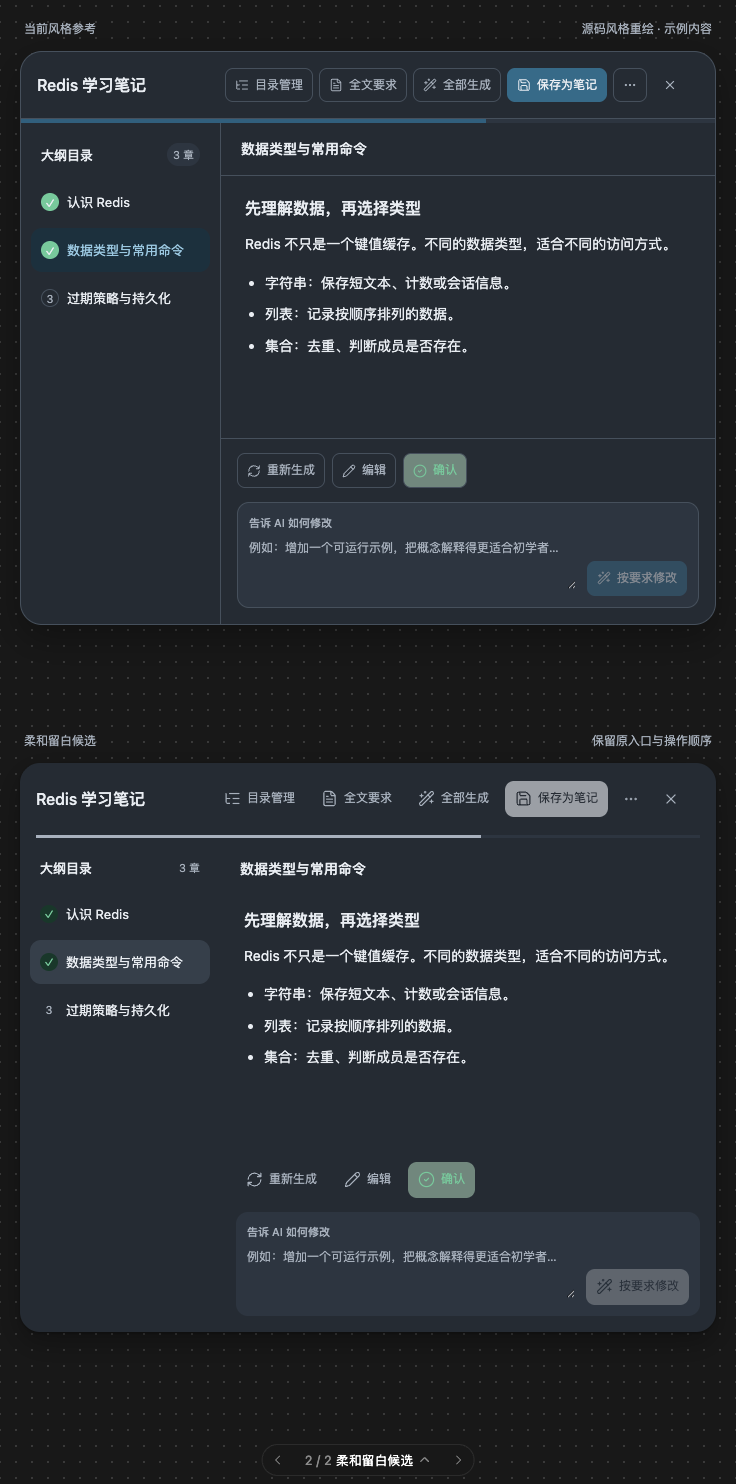
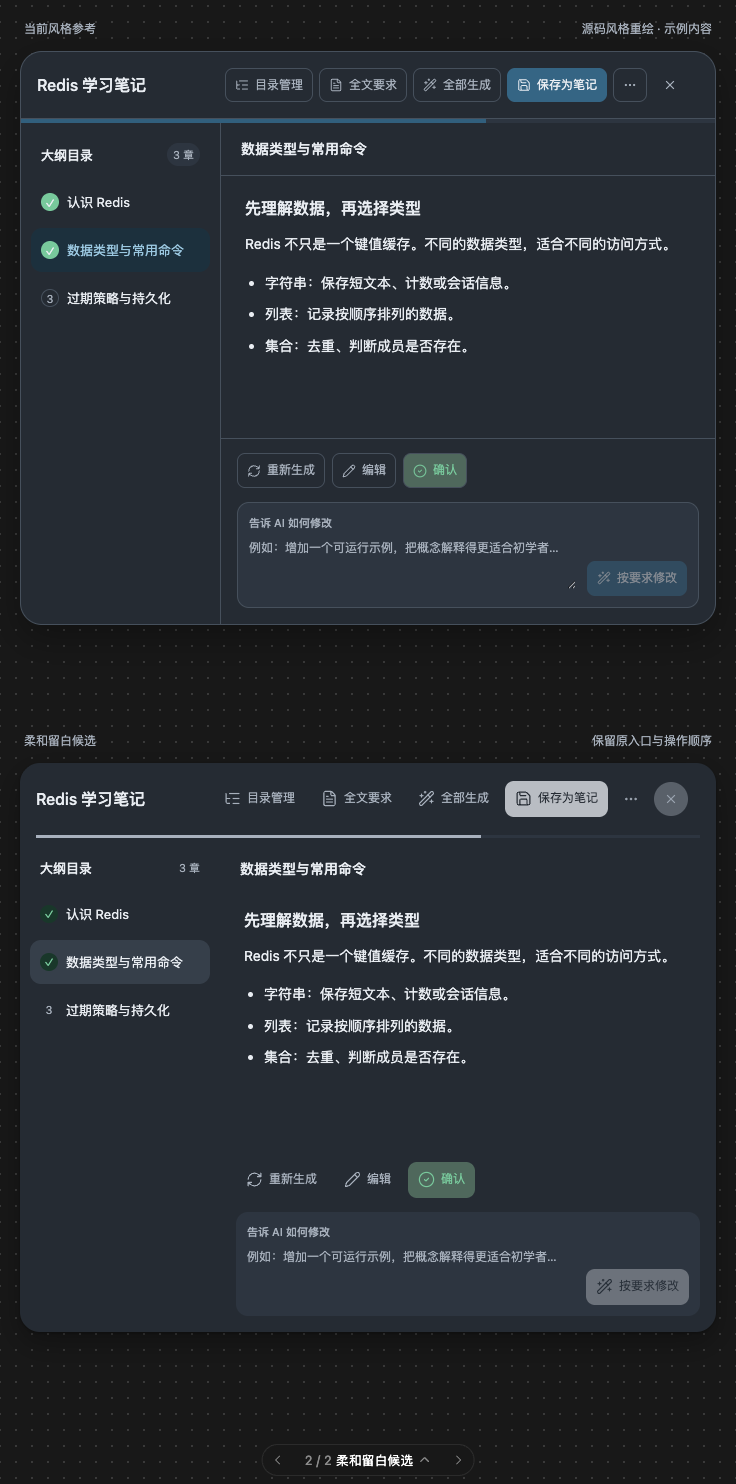
design: 精修草稿修改框与关闭控件细节
改动：仅细化柔和留白候选的章节修改框与顶部/嵌套图标关闭。取消原生拖拽斜纹，输入自适应52–104px并保留超限文本滚动；关闭采用中性圆形底座、14px/1.8图标及140ms反馈。更新图片、预览、回归脚本、设计索引与同一问题记录。

原因：用户认可去框线方向，但认为缩放手柄与关闭叉仍粗糙。保持原区域、动作顺序和其他样式，不扩大为正式页面改造。

验证：隔离设计浏览器736/320px、resize:none、增高/清空/禁用、关闭尺寸/笔画/悬停、44px触屏、原状态/IME/焦点/保存居中、深色/减少动效与无输入持久化通过，pageerror为空；三张完整图人工检查。test:editor-ui、check:dev-ports、diff --check通过。

限制：仅设计稿，src/业务数据/模型/服务未改；用户审美和取消手动拖拽后的真实体验待确认，真实AI/保存E2E、完整嵌套状态、实体设备与读屏未验收。修正的触屏层叠回归仅属于本稿，不代表全局CSS或历史工具问题解决。

diff --git a/design/noteflow-draft-soft.preview.html b/design/noteflow-draft-soft.preview.html
@@ -1626,6 +1626,7 @@ html&gt;body{padding:0}&lt;/style&gt;
   #nf-draft-study .nds-revision button { flex:none; }
   #nf-draft-study button:disabled { opacity:.45; }
   #nf-draft-study .nds-soft .nds-revision { border:0; }
+  #nf-draft-study .nds-soft .nds-revision textarea { resize:none;overflow-y:hidden; }
   #nf-draft-study .nds-edit-field { min-height:215px;resize:vertical; }
   #nf-draft-study .nds-popover { position:absolute;right:16px;top:100%;z-index:5;width:340px;max-width:calc(100% - 32px);padding:16px;border:1px solid var(--nds-border);border-radius:16px;background:var(--nds-surface);box-shadow:0 12px 30px var(--nds-shadow); }
   #nf-draft-study .nds-popover[data-panel=&quot;more&quot;] { width:170px; }
@@ -1643,6 +1644,14 @@ html&gt;body{padding:0}&lt;/style&gt;
   #nf-draft-study .nds-window svg.lucide { width:14px!important;height:14px!important;max-width:none;stroke-width:1.8;flex:none;color:inherit; }
   #nf-draft-study .nds-soft svg.lucide { width:17px!important;height:17px!important;stroke-width:1.65; }
   #nf-draft-study .nds-soft .nds-icon-button svg.lucide { width:16px!important;height:16px!important; }
+  #nf-draft-study .nds-soft .nds-icon-button[data-action=&quot;close&quot;],
+  #nf-draft-study .nds-soft .nds-icon-button[data-action=&quot;dismiss-panel&quot;] { width:34px;min-height:34px;border-radius:50%;background:var(--nds-soft);color:var(--nds-muted);transition:background-color 140ms ease,color 140ms ease,transform 140ms ease; }
+  #nf-draft-study .nds-soft .nds-icon-button[data-action=&quot;close&quot;]:hover,
+  #nf-draft-study .nds-soft .nds-icon-button[data-action=&quot;dismiss-panel&quot;]:hover { background:var(--nds-selected);color:var(--nds-text); }
+  #nf-draft-study .nds-soft .nds-icon-button[data-action=&quot;close&quot;]:active,
+  #nf-draft-study .nds-soft .nds-icon-button[data-action=&quot;dismiss-panel&quot;]:active { transform:scale(.96); }
+  #nf-draft-study .nds-soft .nds-icon-button[data-action=&quot;close&quot;] svg.lucide,
+  #nf-draft-study .nds-soft .nds-icon-button[data-action=&quot;dismiss-panel&quot;] svg.lucide { width:14px!important;height:14px!important;stroke-width:1.8; }
   @keyframes nds-pop-in { from { opacity:0;transform:translateY(-4px); } to { opacity:1;transform:none; } }
   @media(max-width:600px) {
     #nf-draft-study .nds-stage { padding:16px 12px 28px;min-height:1120px; }
@@ -1659,7 +1668,7 @@ html&gt;body{padding:0}&lt;/style&gt;
   }
   @media(pointer:coarse) {
     #nf-draft-study .nds-window .nds-action,#nf-draft-study .nds-window .nds-icon-button { min-height:44px; }
-    #nf-draft-study .nds-window .nds-icon-button { width:44px; }
+    #nf-draft-study .nds-window .nds-icon-button[data-action] { width:44px;min-height:44px; }
     #nf-draft-study .nds-window .nds-chapter { min-height:44px; }
     #nf-draft-study .nds-window textarea,#nf-draft-study .nds-window input,#nf-draft-study .nds-window select { font-size:16px; }
   }
@@ -1668,7 +1677,7 @@ html&gt;body{padding:0}&lt;/style&gt;
 &lt;script&gt;
 (() =&gt; {
   const root=document.getElementById(&#x27;nf-draft-study&#x27;);
-  const identity=&#x27;NoteFlow draft soft 20261003&#x27;;
+  const identity=&#x27;NoteFlow draft soft details 20261003&#x27;;
   const state={selected:1,editing:false,confirmed:false,radius:20,rowHeight:44,revision:0};
   const chapters=[{title:&#x27;认识 Redis&#x27;,complete:true},{title:&#x27;数据类型与常用命令&#x27;,complete:true},{title:&#x27;过期策略与持久化&#x27;,complete:false}];
   const editedContent=new Map();
@@ -1677,6 +1686,13 @@ html&gt;body{padding:0}&lt;/style&gt;
   const icon=name=&gt;`&lt;i data-lucide=&quot;${name}&quot; aria-hidden=&quot;true&quot;&gt;&lt;/i&gt;`;
   const button=(label,name,action,extra=&#x27;&#x27;)=&gt;`&lt;button type=&quot;button&quot; class=&quot;nds-action cursor-interaction ${extra}&quot; data-action=&quot;${action}&quot;&gt;${icon(name)}${label}&lt;/button&gt;`;
   const announce=message=&gt;{root.querySelector(&#x27;.nds-announcement&#x27;).textContent=message;};
+  function fitRevision(field) {
+    if(!field.closest(&#x27;.nds-soft&#x27;) || !field.getBoundingClientRect().width)return;
+    field.style.height=&#x27;52px&#x27;;
+    const height=Math.min(104,Math.max(52,field.scrollHeight));
+    field.style.height=height+&#x27;px&#x27;;
+    field.style.overflowY=field.scrollHeight&gt;height?&#x27;auto&#x27;:&#x27;hidden&#x27;;
+  }
   function persist(action) {
     state.revision++;
     window.openai?.setWidgetState?.({modelContent:{design:identity,style:&#x27;柔和留白&#x27;,lastAction:action},privateContent:{draftDesign:{design:identity,revision:state.revision,selected:state.selected,confirmed:state.confirmed,radius:state.radius,rowHeight:state.rowHeight}}})?.catch(()=&gt;{});
@@ -1694,7 +1710,9 @@ html&gt;body{padding:0}&lt;/style&gt;
     view.querySelector(&#x27;[data-action=&quot;requirements&quot;]&#x27;).setAttribute(&#x27;aria-expanded&#x27;,&#x27;false&#x27;);
     view.querySelector(&#x27;[data-action=&quot;requirements&quot;]&#x27;).setAttribute(&#x27;aria-controls&#x27;,`nds-requirements-${index}`);
     view.querySelector(&#x27;[data-action=&quot;save&quot;]&#x27;).setAttribute(&#x27;aria-haspopup&#x27;,&#x27;dialog&#x27;);
-    view.querySelector(&#x27;.nds-revision textarea&#x27;).addEventListener(&#x27;input&#x27;,event=&gt;{view.querySelector(&#x27;[data-action=&quot;revise&quot;]&#x27;).disabled=!event.target.value.trim();});
+    const revisionField=view.querySelector(&#x27;.nds-revision textarea&#x27;);
+    revisionField.addEventListener(&#x27;input&#x27;,event=&gt;{view.querySelector(&#x27;[data-action=&quot;revise&quot;]&#x27;).disabled=!event.target.value.trim();fitRevision(revisionField);});
+    if(view.classList.contains(&#x27;nds-soft&#x27;) &amp;&amp; globalThis.ResizeObserver){let width=0;new ResizeObserver(entries=&gt;{const next=entries[0].contentRect.width;if(next&gt;0 &amp;&amp; next!==width){width=next;fitRevision(revisionField);}}).observe(view);}
   });
   function render() {
     root.style.setProperty(&#x27;--nds-radius&#x27;,state.radius+&#x27;px&#x27;);root.style.setProperty(&#x27;--nds-row-height&#x27;,state.rowHeight+&#x27;px&#x27;);
@@ -1715,6 +1733,7 @@ html&gt;body{padding:0}&lt;/style&gt;
       view.querySelector(&#x27;[data-action=&quot;confirm&quot;]&#x27;).hidden=state.selected===0 || (state.selected===1 &amp;&amp; state.confirmed);
       view.querySelector(&#x27;.nds-revision&#x27;).hidden=!chapter.complete || state.editing;
       view.querySelector(&#x27;[data-action=&quot;revise&quot;]&#x27;).disabled=!view.querySelector(&#x27;.nds-revision textarea&#x27;).value.trim();
+      fitRevision(view.querySelector(&#x27;.nds-revision textarea&#x27;));
     });
     if(globalThis.lucide)lucide.createIcons({attrs:{width:17,height:17}});
   }

diff --git a/design/noteflow-draft-soft.source.html b/design/noteflow-draft-soft.source.html
@@ -87,6 +87,7 @@
   #nf-draft-study .nds-revision button { flex:none; }
   #nf-draft-study button:disabled { opacity:.45; }
   #nf-draft-study .nds-soft .nds-revision { border:0; }
+  #nf-draft-study .nds-soft .nds-revision textarea { resize:none;overflow-y:hidden; }
   #nf-draft-study .nds-edit-field { min-height:215px;resize:vertical; }
   #nf-draft-study .nds-popover { position:absolute;right:16px;top:100%;z-index:5;width:340px;max-width:calc(100% - 32px);padding:16px;border:1px solid var(--nds-border);border-radius:16px;background:var(--nds-surface);box-shadow:0 12px 30px var(--nds-shadow); }
   #nf-draft-study .nds-popover[data-panel="more"] { width:170px; }
@@ -104,6 +105,14 @@
   #nf-draft-study .nds-window svg.lucide { width:14px!important;height:14px!important;max-width:none;stroke-width:1.8;flex:none;color:inherit; }
   #nf-draft-study .nds-soft svg.lucide { width:17px!important;height:17px!important;stroke-width:1.65; }
   #nf-draft-study .nds-soft .nds-icon-button svg.lucide { width:16px!important;height:16px!important; }
+  #nf-draft-study .nds-soft .nds-icon-button[data-action="close"],
+  #nf-draft-study .nds-soft .nds-icon-button[data-action="dismiss-panel"] { width:34px;min-height:34px;border-radius:50%;background:var(--nds-soft);color:var(--nds-muted);transition:background-color 140ms ease,color 140ms ease,transform 140ms ease; }
+  #nf-draft-study .nds-soft .nds-icon-button[data-action="close"]:hover,
+  #nf-draft-study .nds-soft .nds-icon-button[data-action="dismiss-panel"]:hover { background:var(--nds-selected);color:var(--nds-text); }
+  #nf-draft-study .nds-soft .nds-icon-button[data-action="close"]:active,
+  #nf-draft-study .nds-soft .nds-icon-button[data-action="dismiss-panel"]:active { transform:scale(.96); }
+  #nf-draft-study .nds-soft .nds-icon-button[data-action="close"] svg.lucide,
+  #nf-draft-study .nds-soft .nds-icon-button[data-action="dismiss-panel"] svg.lucide { width:14px!important;height:14px!important;stroke-width:1.8; }
   @keyframes nds-pop-in { from { opacity:0;transform:translateY(-4px); } to { opacity:1;transform:none; } }
   @media(max-width:600px) {
     #nf-draft-study .nds-stage { padding:16px 12px 28px;min-height:1120px; }
@@ -120,7 +129,7 @@
   }
   @media(pointer:coarse) {
     #nf-draft-study .nds-window .nds-action,#nf-draft-study .nds-window .nds-icon-button { min-height:44px; }
-    #nf-draft-study .nds-window .nds-icon-button { width:44px; }
+    #nf-draft-study .nds-window .nds-icon-button[data-action] { width:44px;min-height:44px; }
     #nf-draft-study .nds-window .nds-chapter { min-height:44px; }
     #nf-draft-study .nds-window textarea,#nf-draft-study .nds-window input,#nf-draft-study .nds-window select { font-size:16px; }
   }
@@ -129,7 +138,7 @@
 <script>
 (() => {
   const root=document.getElementById('nf-draft-study');
-  const identity='NoteFlow draft soft 20261003';
+  const identity='NoteFlow draft soft details 20261003';
   const state={selected:1,editing:false,confirmed:false,radius:20,rowHeight:44,revision:0};
   const chapters=[{title:'认识 Redis',complete:true},{title:'数据类型与常用命令',complete:true},{title:'过期策略与持久化',complete:false}];
   const editedContent=new Map();
@@ -138,6 +147,13 @@
   const icon=name=>`<i data-lucide="${name}" aria-hidden="true"></i>`;
   const button=(label,name,action,extra='')=>`<button type="button" class="nds-action cursor-interaction ${extra}" data-action="${action}">${icon(name)}${label}</button>`;
   const announce=message=>{root.querySelector('.nds-announcement').textContent=message;};
+  function fitRevision(field) {
+    if(!field.closest('.nds-soft') || !field.getBoundingClientRect().width)return;
+    field.style.height='52px';
+    const height=Math.min(104,Math.max(52,field.scrollHeight));
+    field.style.height=height+'px';
+    field.style.overflowY=field.scrollHeight>height?'auto':'hidden';
+  }
   function persist(action) {
     state.revision++;
     window.openai?.setWidgetState?.({modelContent:{design:identity,style:'柔和留白',lastAction:action},privateContent:{draftDesign:{design:identity,revision:state.revision,selected:state.selected,confirmed:state.confirmed,radius:state.radius,rowHeight:state.rowHeight}}})?.catch(()=>{});
@@ -155,7 +171,9 @@
     view.querySelector('[data-action="requirements"]').setAttribute('aria-expanded','false');
     view.querySelector('[data-action="requirements"]').setAttribute('aria-controls',`nds-requirements-${index}`);
     view.querySelector('[data-action="save"]').setAttribute('aria-haspopup','dialog');
-    view.querySelector('.nds-revision textarea').addEventListener('input',event=>{view.querySelector('[data-action="revise"]').disabled=!event.target.value.trim();});
+    const revisionField=view.querySelector('.nds-revision textarea');
+    revisionField.addEventListener('input',event=>{view.querySelector('[data-action="revise"]').disabled=!event.target.value.trim();fitRevision(revisionField);});
+    if(view.classList.contains('nds-soft') && globalThis.ResizeObserver){let width=0;new ResizeObserver(entries=>{const next=entries[0].contentRect.width;if(next>0 && next!==width){width=next;fitRevision(revisionField);}}).observe(view);}
   });
   function render() {
     root.style.setProperty('--nds-radius',state.radius+'px');root.style.setProperty('--nds-row-height',state.rowHeight+'px');
@@ -176,6 +194,7 @@
       view.querySelector('[data-action="confirm"]').hidden=state.selected===0 || (state.selected===1 && state.confirmed);
       view.querySelector('.nds-revision').hidden=!chapter.complete || state.editing;
       view.querySelector('[data-action="revise"]').disabled=!view.querySelector('.nds-revision textarea').value.trim();
+      fitRevision(view.querySelector('.nds-revision textarea'));
     });
     if(globalThis.lucide)lucide.createIcons({attrs:{width:17,height:17}});
   }

diff --git a/design/noteflow-draft-soft-notes.md b/design/noteflow-draft-soft-notes.md
@@ -16,7 +16,7 @@
 - 中性选中行、轻量章节编号与完成标记；保留原有完成语义、未生成入口和 67% 示例进度。
 - 工具与章节操作采用无框按钮，保存仍为主要动作，确认仍使用轻量成功色；不把所有按钮都做成黑色主按钮。
 - 正文仍为主区域，修改要求保留在正文下方，采用单一柔和表面，保留原标签及按钮顺序。
-- 统一 Lucide 图标、17px / 1.65 笔画（图标按钮 16px）；不是 Apple 图标，不手绘路径。
+- 统一 Lucide 图标、17px / 1.65 笔画（一般图标按钮 16px；后续关闭图标另校准为 14px / 1.8）；不是 Apple 图标，不手绘路径。
 - 全文要求从原入口向下展开，保存保持居中；候选展开 180ms / 减少动效静态回退，键盘焦点保留原生样式。
 
 使用可视化技能来控制中文排版、图标和状态对照，没有用生成图片臆造产品功能。源稿与对话内稿相同。
@@ -54,6 +54,19 @@
 1. 保存弹窗初次居中断言在入场动画中采样，修为等待 180ms 动画结束后测量，不取消动画或放宽定位约束。
 2. 窄屏保存层的 Grid 自动最小轨道被 420px 弹窗撑宽。确认实际宽 420、越界后改 `minmax(0,1fr)`；最终 264px、完整居中。仅此设计稿修正，不宣称正式弹窗存在同样故障或已修复。
 3. 初次窄屏图因 iframe 截图视口不足，后半段空白，不作为交付证据。改在截图前按完整稿件高度扩大隔离视口并复位滚动，重新输出完整图片；这不是修复共享截图工具 DEV-14。
+
+## 后续细节评审：修改框与关闭按钮
+
+用户认可去掉框线，但明确不喜欢“告诉 AI 如何修改”右下角拖拽斜纹和右上角叉的简陋感。本轮仅细化该候选，不将反馈扩大为正式实施授权，不改变目录、工具 / 操作顺序、表面配色及已认可的去框线方向。
+
+- 根因：原候选修改 textarea 保留 `resize:vertical`，斜纹是浏览器原生缩放手柄，不是新增业务按钮；关闭直接继承通用 16px 图标，没有单独定义底座和视觉重量。
+- 候选修改框采用 `resize:none`，输入时自适应 52–104px，清空恢复 52px。超过上限使用原生文本滚动，保留完整文本，不增加展开按钮；手动拖拽仅在候选取消，参考版不改。长文、IME、手机键盘与真实工作区行为需正式实施前确认。
+- 顶部关闭与两个嵌套弹层的图标关闭共用无框浅灰圆形底座，桌面点击区 34px、触屏 44px，中心 Lucide X 为 14px / 1.8，140ms 悬停色过渡和轻量按下反馈；不加原生 title、红色交通灯、标签或额外图标，不改关闭动作。
+- 新增浏览器回归验证候选 resize 为 none、输入增高 / 上限滚动 / 清空复位 / 空值禁用、关闭圆角 50% / 无边框 / 图标尺寸 / 笔画 / 悬停变化 / 44px 触屏目标，原状态 / 焦点 / 居中 / 深色 / 减少动效检查继续通过，pageerror 为空。三张完整图已重新生成并人工检查，尺寸不变。
+- 首次触屏检查发现新增关闭选择器比公共触屏尺寸规则更具体，导致目标仍为 34px；提高本稿 coarse 规则的局部匹配后实测 44×44。此设计稿层叠回归归 UI-05 / UI-17，不宣称修复正式全局 Token 或层叠问题。
+- 本轮设计验证、test:editor-ui、check:dev-ports 通过；未改 src，因此未重复前端全量组件回归 / 构建。上节 42 组 / 10 项证据属于首版提交，不借作本轮新增行为的业务验证。
+
+关闭外观与自适应行为仍待用户评审，正式界面和所有业务限制保持不变。随 `design: 精修草稿修改框与关闭控件细节`。
 
 ## 当前状态
 

diff --git a/design/README.md b/design/README.md
@@ -22,6 +22,8 @@
 
 本稿 736 / 320px 渲染、图标、触屏目标、保存居中、全文要求、Escape / IME / 焦点、状态隐私、深色与减少动效通过。没有访问受限应用或真实数据；正式草稿未改，用户审美与真实业务流程待验收，UI-06 / UI-11 状态不提高。
 
+后续用户认可去框线并指出微控件仍粗糙，本稿只继续细化两处：修改框取消原生拖拽斜纹并随输入适度增高；关闭改为轻灰圆形底座、校准 X 比例与悬停反馈。参考版不改，图片 / 预览已更新；输入增高、清空、44px 触屏与深色回归通过。仍仅设计待评审，未实施正式 UI，详见同一说明的后续细节评审。
+
 ## 搜索弹窗 · 柔和留白已局部实施
 
 用户确认局部稿并明确授权修改后，已将初始收紧、结果按内容向下展开接入正式搜索弹窗。只改此区域，保留全部 / 标题 / 正文、归并结果、摘要 / 路径 / 更新时间 / 命中数、原文跳转与错误重试，不加最近搜索或推荐。以下设计内容仍为合成示例，不是实际搜索结果；三张独立标本不是同时开启三个真实弹窗。
